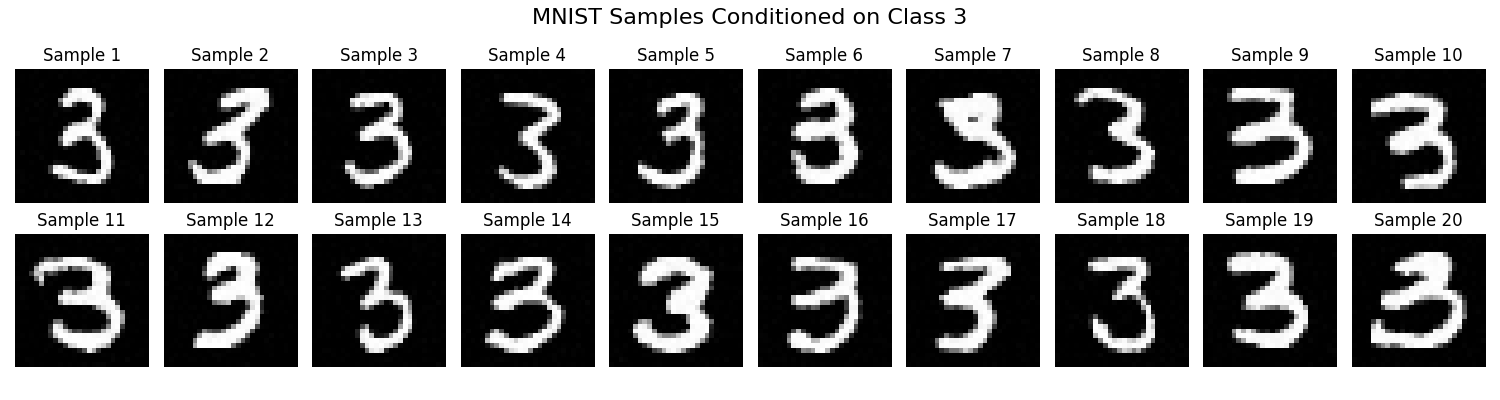
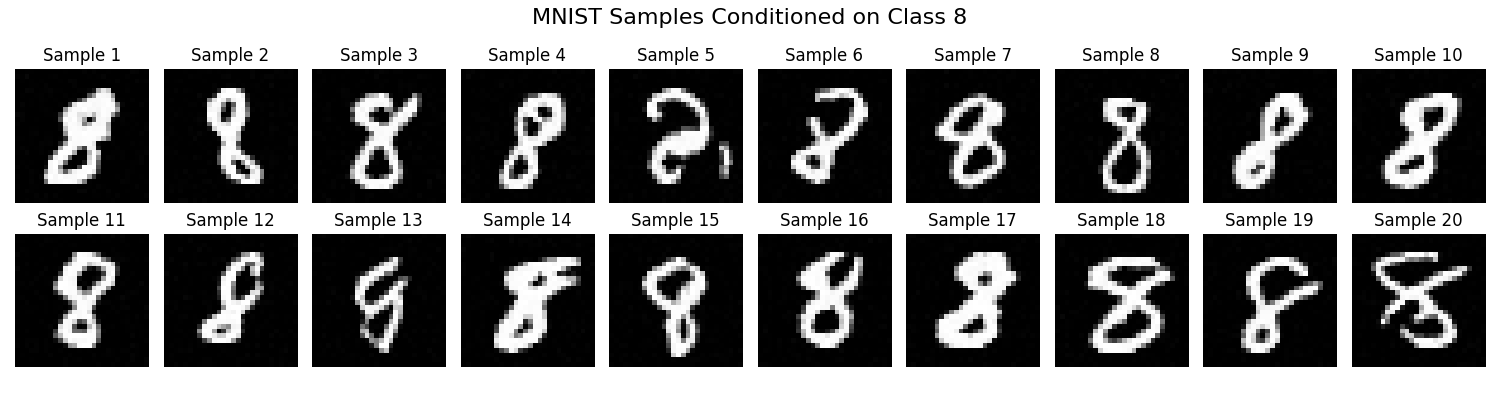
added unconditional samples

diff --git a/generate_samples.py b/generate_samples.py
@@ -44,7 +44,6 @@ def generate_unconditional_samples(model_path="/home/shahed/guided_diffusion/wei
     plt.show()
 
 
-
 def generate_conditional_samples(
     model_path="/home/shahed/guided_diffusion/weights/mnist_model.pth",
     classifier_path="/home/shahed/guided_diffusion/weights/mnist_classifier.pth",
@@ -128,5 +127,5 @@ def generate_conditional_samples(
 if __name__ == "__main__":
     model_path = "/home/shahed/guided_diffusion/weights/mnist_model_60.pth"
     classifier_path = "/home/shahed/guided_diffusion/weights/mnist_classifier.pth"
-    generate_conditional_samples(model_path=model_path, classifier_path=classifier_path, target_class=3, guidance_scale=5)
-    # generate_unconditional_samples(model_path=model_path)
+    # generate_conditional_samples(model_path=model_path, classifier_path=classifier_path, target_class=8, guidance_scale=5)
+    generate_unconditional_samples(model_path=model_path)

diff --git a/README.md b/README.md
@@ -1,10 +1,12 @@
 The repository contains the code to a small side-project to generate handwritten digits using diffusion models. I used the MNIST dataset to train my own UNet-based diffusion model following the denoising process outlined in the VP-SDE paper.
 The first objective was to generate handwritten digits unconditionally, which was achieved following a simple application of the reverse diffusion procedure. Some representative results achieved after 500 denoising steps are as follows:
 
-![generated unconditional samples](https://github.com/shahed517/guided_diffusion/blob/main/samples/generated_cond_samples.png)
+![generated unconditional samples](https://github.com/shahed517/guided_diffusion/blob/main/samples/generated_uncond_samples.png)
 
 Next a digit classifer was trained to classify digits after random noise injection, similar to the forward diffusion process. For a specific class (e.g. digit 3) the gradient was calculated using pytorch and this was added to the estimated score with some weighting. This resulting in the following conditional samples:
 
 ![generated unconditional samples](https://github.com/shahed517/guided_diffusion/blob/main/samples/generated_cond_samples.png)
 
+References:
+1. Song, Y., Sohl-Dickstein, J., Kingma, D. P., Kumar, A., Ermon, S., & Poole, B. (2021). Score-based generative modeling through stochastic differential equations. In International Conference on Learning Representations (ICLR). 
 
